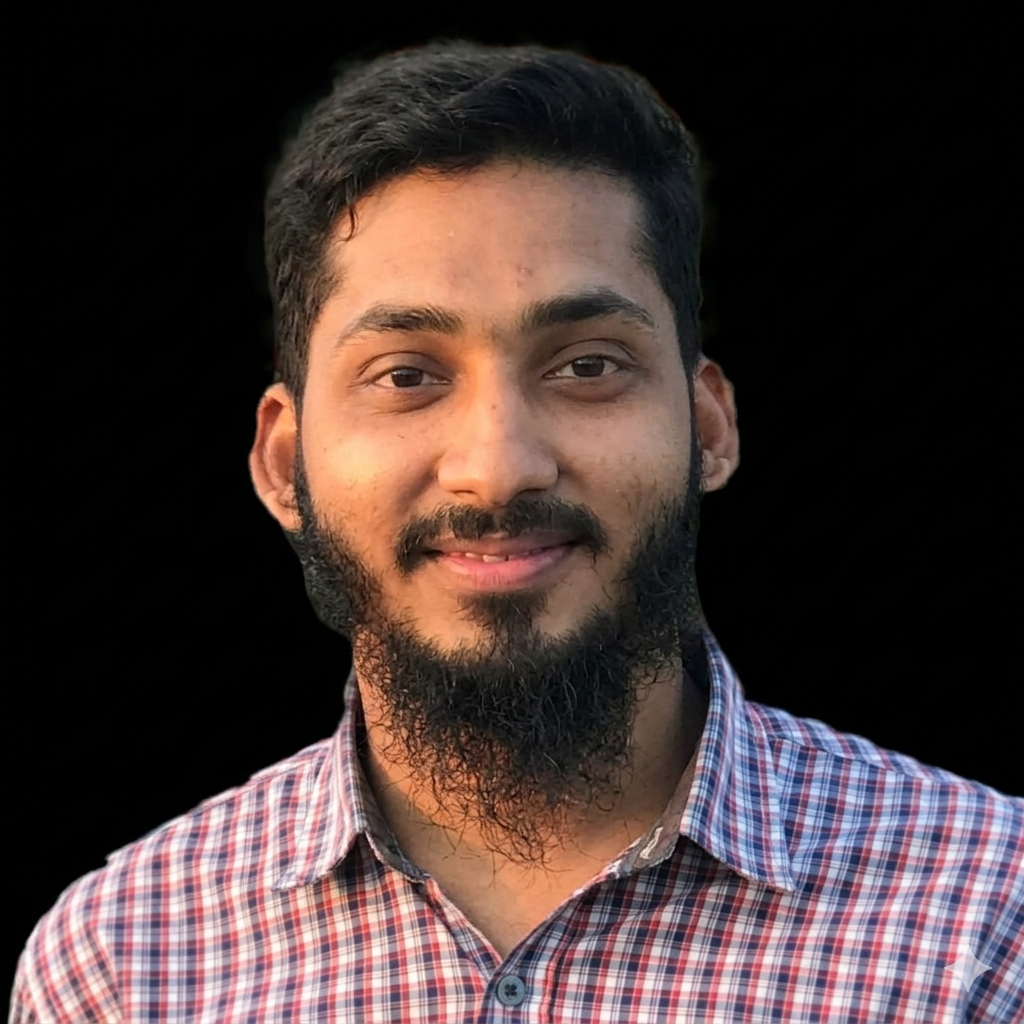
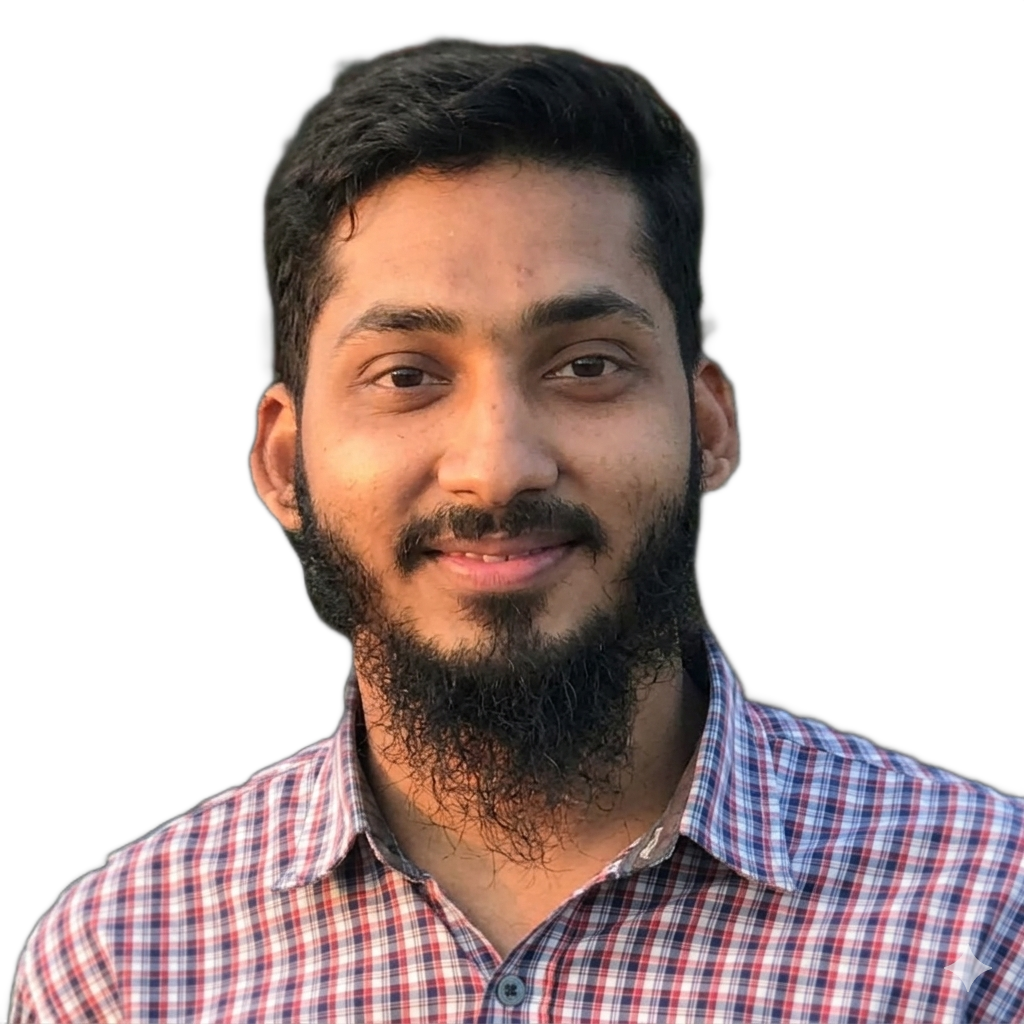
changes navbar and created the dynamic project details page

diff --git a/components/sections/Projects.tsx b/components/sections/Projects.tsx
@@ -142,6 +142,50 @@ function ProjectCard({
         >
           {String(index + 2).padStart(2, "0")}
         </div>
+        <div className="flex gap-2 mt-4">
+          {project.codeLink !== "#" && (
+            // <Button variant="outline" size="sm" asChild>
+            //   <a
+            //     href={project.codeLink}
+            //     target="_blank"
+            //     rel="noopener noreferrer"
+            //     className="gap-2"
+            //   >
+            //     <Github size={14} /> Code
+            //   </a>
+            // </Button>
+
+            <a
+              href={project.codeLink}
+              target="_blank"
+              rel="noopener noreferrer"
+              className="w-8 h-8 rounded-lg border border-[hsl(var(--border))] flex items-center justify-center  text-[hsl(var(--foreground))] hover:bg-[hsl(var(--muted))] transition-all hover:text-[hsl(var(--grad-from))] bg-[hsl(var(--muted-foreground))]"
+            >
+              <Github size={13} />
+            </a>
+          )}
+          {project.liveLink !== "#" && (
+            // <Button size="sm" asChild>
+            //   <a
+            //     href={`/${project.slug}`}
+            //     target="_blank"
+            //     rel="noopener noreferrer"
+            //     className="gap-2"
+            //   >
+            //     <ExternalLink size={14} /> Live Demo
+            //   </a>
+            // </Button>
+
+            <a
+              href={project.liveLink}
+              target="_blank"
+              rel="noopener noreferrer"
+              className="w-8 h-8 rounded-lg border border-[hsl(var(--border))] flex items-center justify-center text-[hsl(var(--foreground))] bg-[hsl(var(--muted))] transition-all"
+            >
+              <ExternalLink size={13} />
+            </a>
+          )}
+        </div>
       </div>
 
       <div>
@@ -171,50 +215,6 @@ function ProjectCard({
             {t}
           </span>
         ))}
-      </div>
-
-      <div className="flex gap-2 mt-4">
-        {project.codeLink !== "#" && (
-          <Button variant="outline" size="sm" asChild>
-            <a
-              href={project.codeLink}
-              target="_blank"
-              rel="noopener noreferrer"
-              className="gap-2"
-            >
-              <Github size={14} /> Code
-            </a>
-          </Button>
-
-          // <a
-          //   href={project.codeLink}
-          //   target="_blank"
-          //   rel="noopener noreferrer"
-          //   className="w-8 h-8 rounded-lg border border-[hsl(var(--border))] flex items-center justify-center text-[hsl(var(--muted-foreground))] hover:text-[hsl(var(--foreground))] hover:bg-[hsl(var(--muted))] transition-all"
-          // >
-          //   <Github size={13} />
-          // </a>
-        )}
-        {project.liveLink !== "#" && (
-          <Button size="sm" asChild>
-            <a
-              href={project.liveLink}
-              target="_blank"
-              rel="noopener noreferrer"
-              className="gap-2"
-            >
-              <ExternalLink size={14} /> Live Demo
-            </a>
-          </Button>
-          // <a
-          //   href={project.liveLink}
-          //   target="_blank"
-          //   rel="noopener noreferrer"
-          //   className="w-8 h-8 rounded-lg border border-[hsl(var(--border))] flex items-center justify-center text-[hsl(var(--muted-foreground))] hover:text-[hsl(var(--foreground))] hover:bg-[hsl(var(--muted))] transition-all"
-          // >
-          //   <ExternalLink size={13} />
-          // </a>
-        )}
       </div>
     </div>
   );

diff --git a/components/sections/Skills.tsx b/components/sections/Skills.tsx
@@ -1,6 +1,6 @@
-'use client'
+"use client";
 
-import { skillCategories } from '@/lib/data'
+import { skillCategories } from "@/lib/data";
 
 export default function Skills() {
   return (
@@ -43,7 +43,12 @@ export default function Skills() {
             {/* Icon grid */}
             <div className="flex flex-wrap gap-4">
               {cat.skills.map((skill) => (
-                <SkillTile key={skill.name} name={skill.name} icon={skill.icon} color={cat.color} />
+                <SkillTile
+                  key={skill.name}
+                  name={skill.name}
+                  icon={skill.icon}
+                  color={cat.color}
+                />
               ))}
             </div>
           </div>
@@ -58,40 +63,52 @@ export default function Skills() {
         <div>
           <h4 className="font-black text-base mb-0.5">Currently Exploring</h4>
           <p className="text-base text-[hsl(var(--muted-foreground))]">
-            Mastering Full-Stack Engineering — diving deep into backend architecture, REST APIs, and databases to become a complete developer.
+            Exploring System Design, AI, and DevOps in depth to design scalable
+            architectures, deploy reliable systems, and build intelligent
+            applications.
           </p>
         </div>
       </div>
     </section>
-  )
+  );
 }
 
-function SkillTile({ name, icon, color }: { name: string; icon: string; color: string }) {
+function SkillTile({
+  name,
+  icon,
+  color,
+}: {
+  name: string;
+  icon: string;
+  color: string;
+}) {
   return (
-    <div
-      className="skill-icon-wrap flex flex-col items-center gap-2 p-4 rounded-2xl border border-[hsl(var(--border))] bg-[hsl(var(--card))] cursor-default w-[88px]"
-    >
+    <div className="skill-icon-wrap flex flex-col items-center gap-2 p-4 rounded-2xl border border-[hsl(var(--border))] bg-[hsl(var(--card))] cursor-default w-[88px]">
       {/* Icon */}
       <div
         className="w-12 h-12 rounded-xl flex items-center justify-center p-2.5"
-        style={{ background: `color-mix(in srgb, ${color} 10%, hsl(var(--muted)))` }}
+        style={{
+          background: `color-mix(in srgb, ${color} 10%, hsl(var(--muted)))`,
+        }}
       >
         <img
           src={icon}
           alt={name}
           className="w-full h-full object-contain"
           onError={(e) => {
-            const t = e.target as HTMLImageElement
-            t.style.display = 'none'
-            const p = t.parentElement
+            const t = e.target as HTMLImageElement;
+            t.style.display = "none";
+            const p = t.parentElement;
             if (p) {
-              p.innerHTML = `<span style="font-size:10px;font-weight:700;color:${color}">${name.slice(0, 2).toUpperCase()}</span>`
+              p.innerHTML = `<span style="font-size:10px;font-weight:700;color:${color}">${name.slice(0, 2).toUpperCase()}</span>`;
             }
           }}
         />
       </div>
       {/* Label */}
-      <span className="text-[10px] font-semibold text-center text-[hsl(var(--muted-foreground))] leading-tight">{name}</span>
+      <span className="text-[10px] font-semibold text-center text-[hsl(var(--muted-foreground))] leading-tight">
+        {name}
+      </span>
     </div>
-  )
+  );
 }

diff --git a/lib/data.ts b/lib/data.ts
@@ -2,7 +2,7 @@ export const personal = {
   name: "Hamidur Rashid",
   title: "Front-End Engineer",
   specialization: "Next.js & React Specialist",
-  profileUrl: "/assets/profile.svg",
+  profileUrl: "/assets/profile.png",
   location: "Bangladesh 🇧🇩",
   email: "Hamidmonju1@gmail.com",
   phone: "+8801867707517",
@@ -20,6 +20,7 @@ export const personal = {
 export const projects = [
   {
     id: 1,
+    slug: "finflow",
     title: "FinFlow",
     subtitle: "Financial Dashboard",
     description:
@@ -33,6 +34,7 @@ export const projects = [
   },
   {
     id: 2,
+    slug: "chatting-application",
     title: "Chatting Application",
     subtitle: "Real-time Chat App",
     description:
@@ -46,6 +48,7 @@ export const projects = [
   },
   {
     id: 3,
+    slug: "crud-application",
     title: "CRUD Application",
     subtitle: "Data Management",
     description:
@@ -59,6 +62,7 @@ export const projects = [
   },
   {
     id: 4,
+    slug: "figma-pixel-perfect-agency",
     title: "Figma → Pixel Perfect",
     subtitle: "Agency Website",
     description:
@@ -72,6 +76,7 @@ export const projects = [
   },
   {
     id: 5,
+    slug: "agency-portfolio",
     title: "Agency Portfolio",
     subtitle: "Responsive Website",
     description:

diff --git a/app/layout.tsx b/app/layout.tsx
@@ -50,7 +50,7 @@ export default function RootLayout({
                 className="flex-1 min-h-screen"
                 style={{
                   marginLeft: "calc(var(--sidebar-w) + 40px);",
-                  marginRight: "calc(var(--rightnav-w) + 60px)",
+                  marginRight: "calc(var(--rightnav-w) + 56px)",
                 }}
               >
                 {children}
@@ -58,7 +58,7 @@ export default function RootLayout({
 
               {/* Right nav — fixed icon nav */}
               <aside
-                className="fixed top-2/4 transform -translate-y-2/4 right-0 z-40 "
+                className="fixed top-2/4 transform -translate-y-2/4 right-10 z-40"
                 style={{ width: "var(--rightnav-w)" }}
               >
                 <RightNav />

diff --git a/components/RightNav.tsx b/components/RightNav.tsx
@@ -113,7 +113,7 @@ export default function RightNav({ mobile = false }: { mobile?: boolean }) {
 
   /* Desktop right nav */
   return (
-    <div className="w-full h-full flex flex-col items-center justify-between py-6 px-3 border-l border-[hsl(var(--border))] bg-[hsl(var(--card))]/60 backdrop-blur-xl">
+    <div className="w-full h-full flex flex-col items-center justify-between py-6 px-3 border border-[hsl(var(--border))] bg-[hsl(var(--card))]/60 backdrop-blur-xl rounded-[50px]">
       {/* Nav items */}
       <nav className="flex flex-col items-center gap-2">
         {navItems.map((item) => {

diff --git a/app/[slug]/page.tsx b/app/[slug]/page.tsx
@@ -1,0 +1,19 @@
+import { projects } from "@/lib/data";
+import { notFound } from "next/navigation";
+
+export default function ProjectDetails({
+  params,
+}: {
+  params: { slug: string };
+}) {
+  const project = projects.find((p) => p.slug === params.slug);
+
+  if (!project) return notFound();
+
+  return (
+    <div>
+      <h1>{project.title}</h1>
+      <p>{project.description}</p>
+    </div>
+  );
+}

diff --git a/app/[slug]/error.tsx b/app/[slug]/error.tsx
@@ -1,0 +1,18 @@
+"use client";
+
+export default function Error({
+  error,
+  reset,
+}: {
+  error: Error;
+  reset: () => void;
+}) {
+  return (
+    <div style={{ padding: "20px" }}>
+      <h2>Something went wrong</h2>
+      <p>{error.message}</p>
+
+      <button onClick={() => reset()}>Try again</button>
+    </div>
+  );
+}

diff --git a/app/[slug]/loading.tsx b/app/[slug]/loading.tsx
@@ -1,0 +1,10 @@
+export default function Loading() {
+  return (
+    <div style={{ padding: "20px" }}>
+      <div className="animate-pulse">
+        <div style={{ height: 30, background: "#ddd", marginBottom: 10 }} />
+        <div style={{ height: 10, background: "#eee", width: "80%" }} />
+      </div>
+    </div>
+  );
+}
